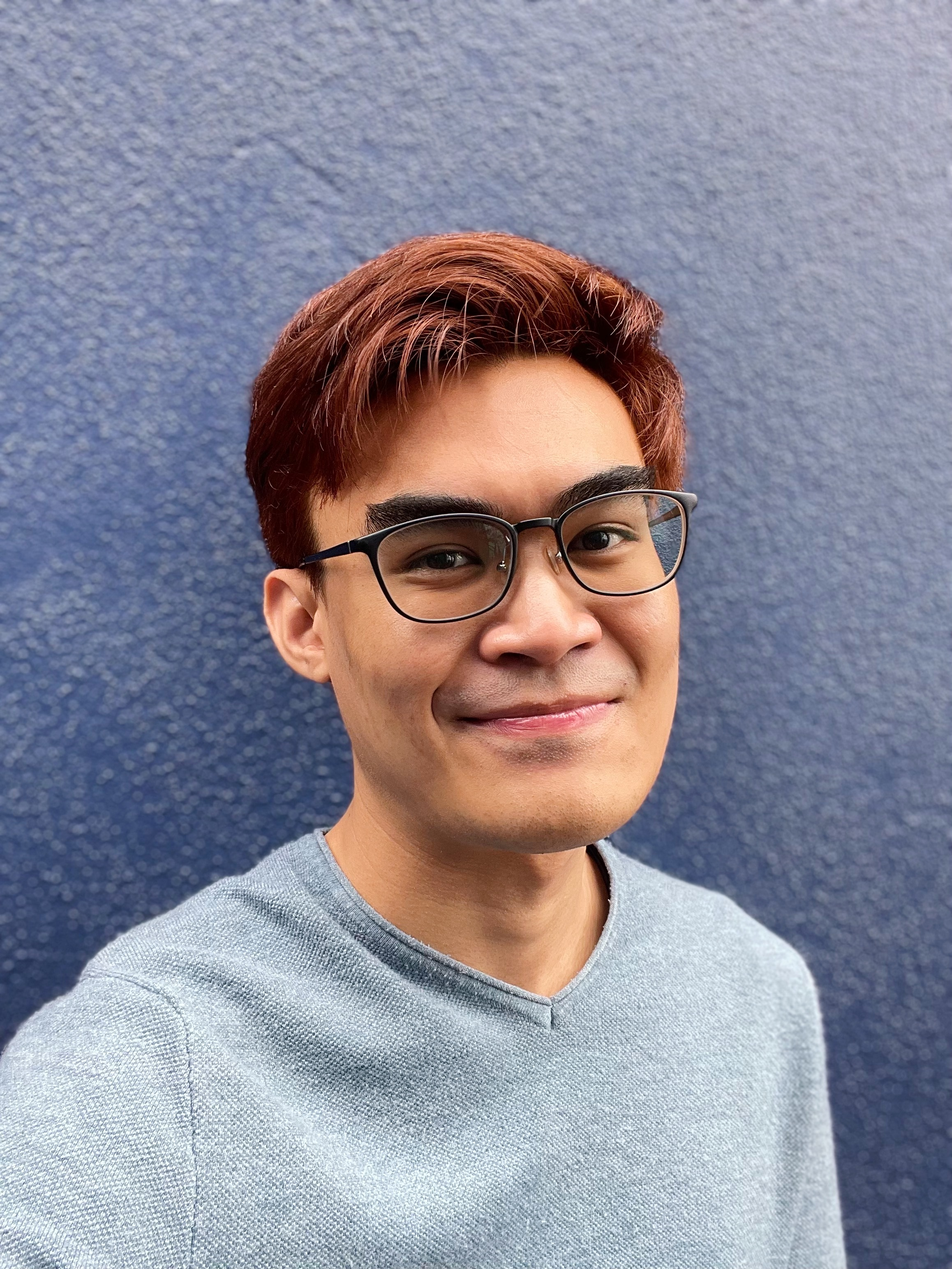
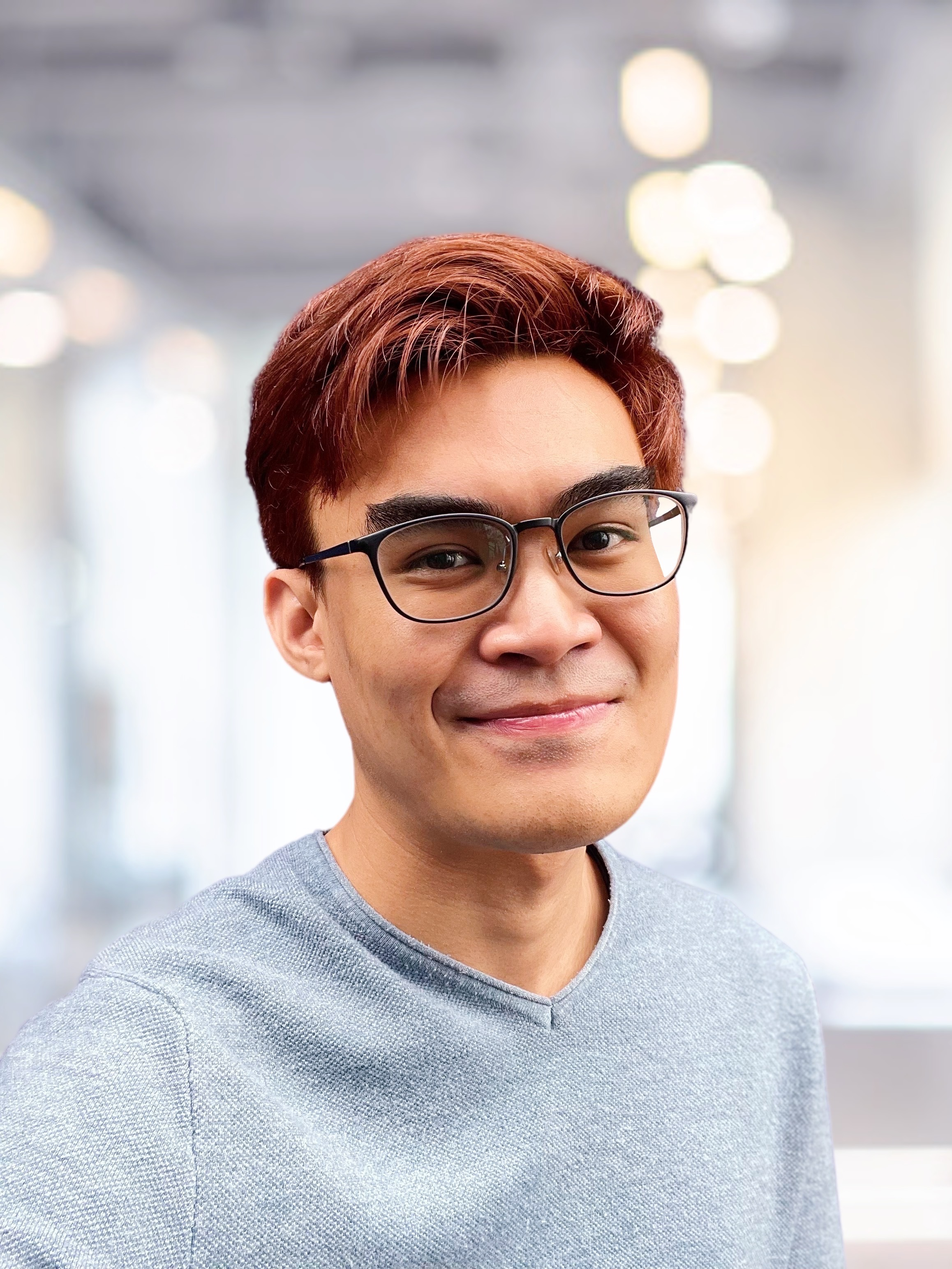
Changed About Me picture and styling

diff --git a/src/components/About/AboutMe.tsx b/src/components/About/AboutMe.tsx
@@ -18,16 +18,16 @@ const AboutMe: React.FC = () => {
     return (
         <Content>
             <p>
-                A passionate and highly motivated developer born and raised in
-                Kuching, Sarawak with a strong keenness to learn new things.
+                An aspiring full-stack developer born and raised in Kuching,
+                Sarawak with strong and broad technical acumen dedicated to
+                lifelong learning.
             </p>
 
             <p>
-                A first-class graduate in Software Engineering from Universiti
-                Malaya, I joined Dell Technologies as a Software Engineer based
-                in Cyberjaya under the TMX Validation and Transition COE team
-                after being crowned the Grand Prize Winner (tied) for Dell
-                Virtual Hack2Hire (Feb 2021).
+                A <strong>Software Engineering first-class graduate</strong> from Universiti
+                Malaya, I joined <strong>Dell Technologies</strong> as a Software Engineer based
+                in Cyberjaya after being crowned the Grand Prize Winner (tied)
+                for Dell Digital Virtual Hack2Hire (Feb 2021).
             </p>
 
             <p>

diff --git a/src/components/About/About.tsx b/src/components/About/About.tsx
@@ -19,11 +19,14 @@ export const Wrapper = styled.section`
 export const Information = styled.header`
   grid-row: 2 / 4;
   grid-column: 1 / 6;
+  max-width: 55%;
   z-index: 3;
   ${props => props.theme.media.max.md`
+    max-width: 49%;
     grid-column: 1 / 7;
   `}
   ${props => props.theme.media.max.sm`
+    max-width: 100%;
     grid-row: 2 / 3;
     grid-column: 1 / 1;
   `}

diff --git a/src/components/About/Image.tsx b/src/components/About/Image.tsx
@@ -28,14 +28,14 @@ const StyledImage = styled.img`
   width: 100%;
   height: 100%;
   margin: auto;
-  top: -100%;
+  top: -120%;
   right: -100%;
   bottom: -100%;
   left: -100%;
   mix-blend-mode: lighten;
   opacity: 0.5;
   display: block;
-  object-fit: cover;
+  object-fit: contain;
   ${props => props.theme.media.max.sm`
       opacity: 0.7;
     `}
